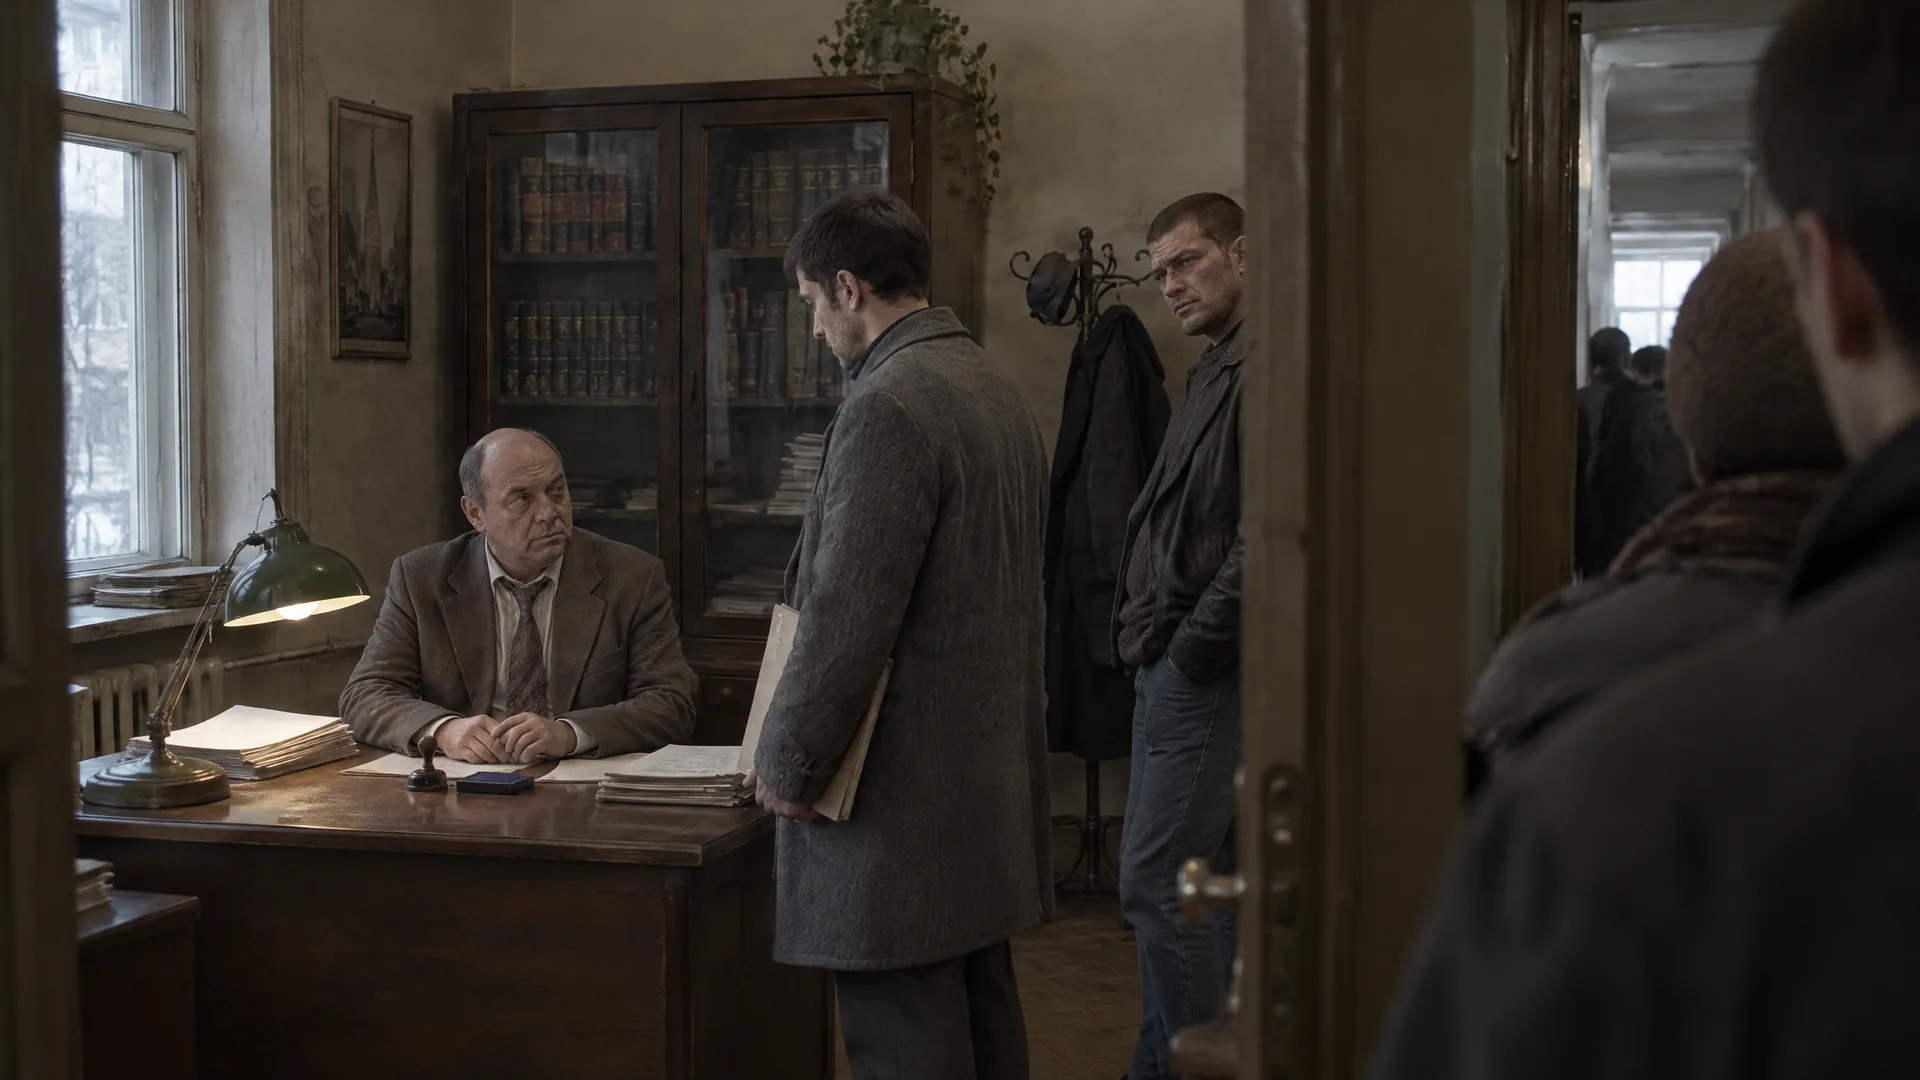
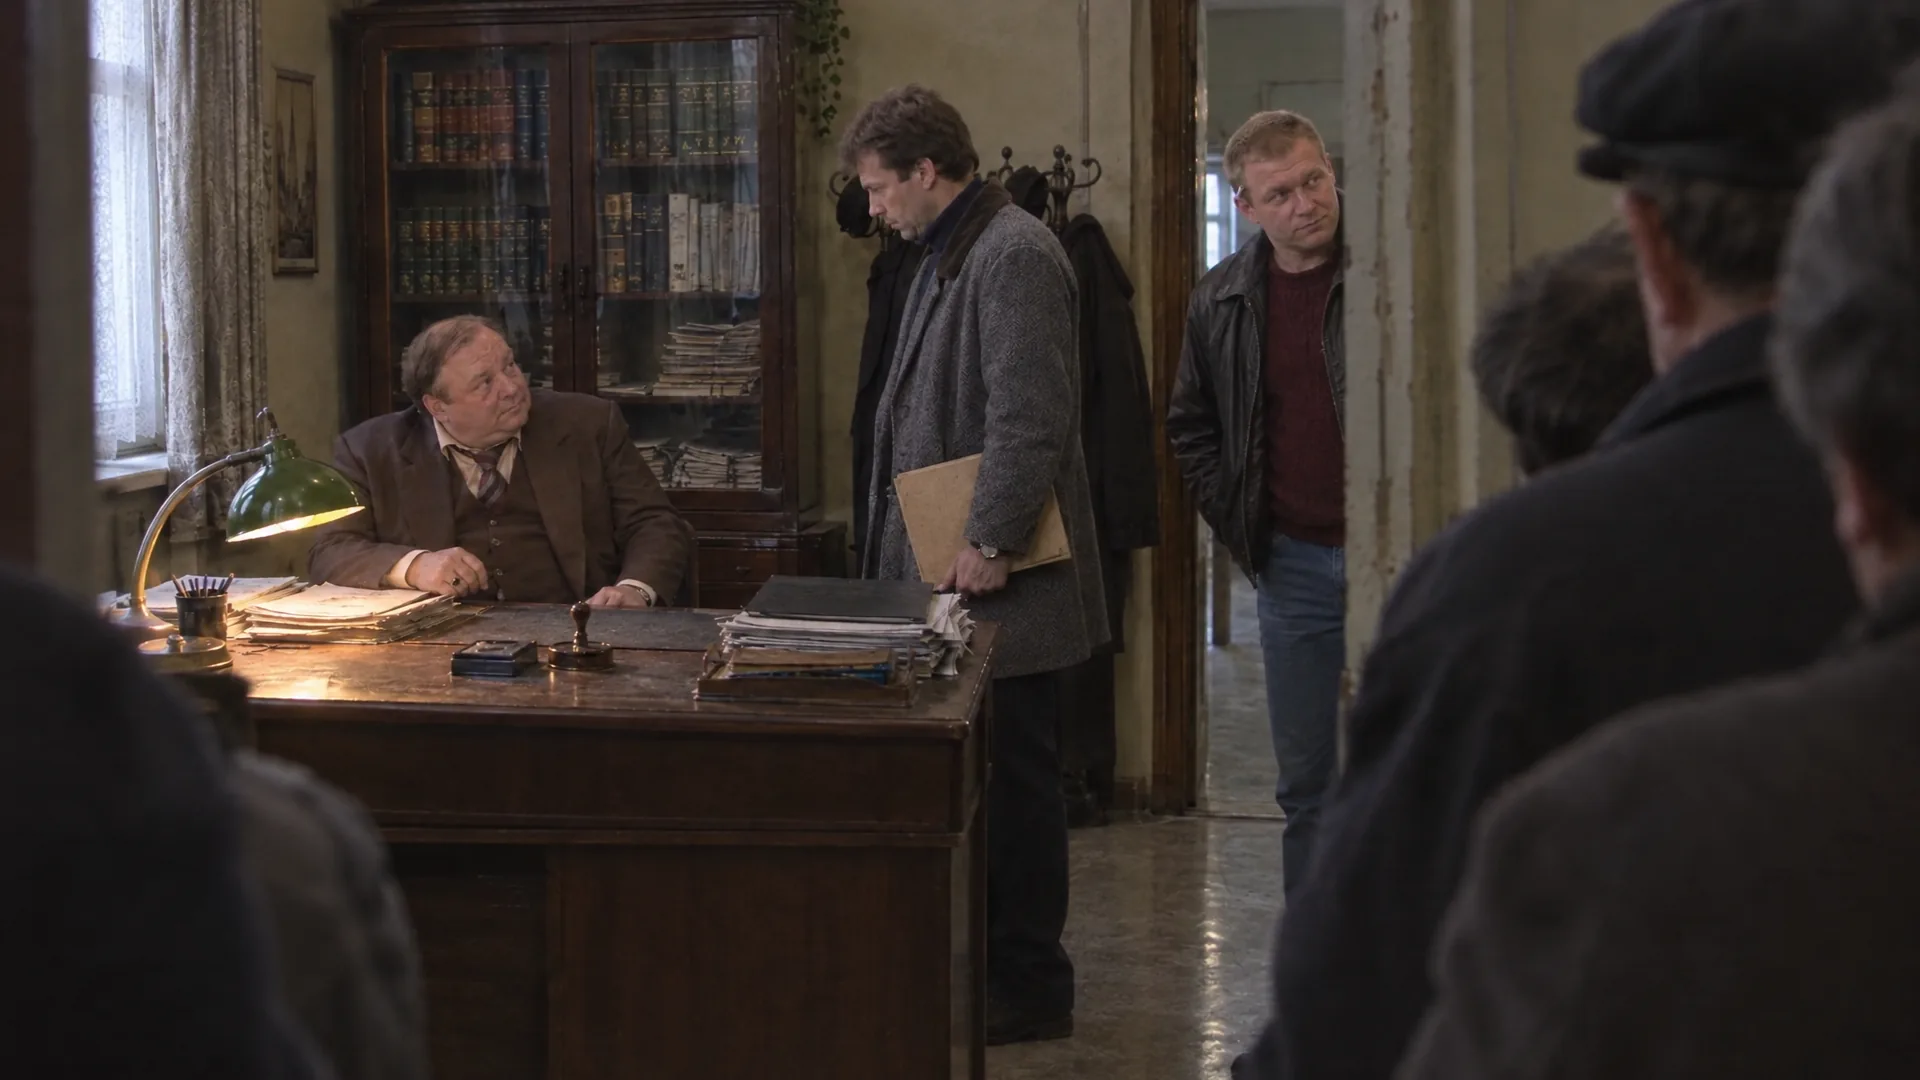
Пересъёмка на high: notary — 29 кадров через API
Волна A — общие планы и эталонный крупный план нотариуса, кроп нового
wide_1 в REGEN_REFS; волна B — 26 кадров. В ракурсе из коридора очередь
названа незнакомцами без примет героев (модель поставила в неё вторую Зою).

diff --git a/tools/shot_plan.py b/tools/shot_plan.py
@@ -451,7 +451,8 @@ ANGLES = {
                  "people and the floor toward the open door"),
         ("foreground", "the camera is in the corridor at the open door, looking past the door's edge and the shoulders of "
                        "the waiting queue in the near foreground, out of focus, into the office: the desk with the lamp "
-                       "and the people beyond, in focus"),
+                       "and the people beyond, in focus; the queue are strangers in plain dark coats and caps, none of "
+                       "them dressed like a character of the story (no grey knitted beret, no dark-cherry coat)"),
     ],
     "bg_stairwell": [
         ("low", "the camera is on the stairs two steps below the landing, at the level of the top step, tilted up through "
@@ -550,6 +551,8 @@ REGEN_REFS: dict[str, dict[str, str]] = {
     "apartment_zoya": {"room": "sh_apartment_zoya_wide_1", "medium": "file:assets/ep01/refs/apartment_zoya_medium_v2.jpg",
                        "angle": "file:assets/ep01/refs/apartment_zoya_medium_v2.jpg", "insert": "file:assets/ep01/refs/apartment_zoya_medium_v2.jpg",
                        "medium_solo": "media:f2b7b3ac-4120-4d2f-9501-dd407a5aab1b"},
+    "notary": {"room": "sh_notary_wide_1", "medium": "file:assets/ep01/refs/notary_medium_v2.jpg",
+               "angle": "file:assets/ep01/refs/notary_medium_v2.jpg", "insert": "file:assets/ep01/refs/notary_medium_v2.jpg"},
 }
 NEW_IDS: set[str] = set()  # записи манифеста с "v": 2 — кадры, принятые уже по новым лицам
 

diff --git a/assets/ep01/generation-log.md b/assets/ep01/generation-log.md
@@ -416,6 +416,7 @@ daylight, slush»). Решение: панорама хроники переге
 | 102 | **Выражения спрайтов, high**: 21 правка принятой базы (Reference 1 — база, «то же лицо, одежда, поза и кадр; меняется только выражение»; тексты выражений — `sprite_plan.EXPR`). 13 — Higgsfield high/2k (кредиты кончились: 2,55 осталось), 8 — API gpt-image-2.5-flare high 1088×1920 с `background: transparent` (≈ $0.055 за спрайт; альфа есть) | 21 из 21 приняты с первого раза; рамка фигуры у выражения совпадает с базой в пределах 1–2 % высоты (boss.tired оседает — так в тексте выражения), смена выражения в игре без скачка |
 | 103 | **Пересъёмка stairwell на high** через API (gpt-image-2.5-flare, high, 1920×1088 → 1920×1080): волна A — wide ×3 по фону и лицам + эталонный крупный план соседки; кропы нового wide_1 и wide_3 → `refs/stairwell_medium_v2.jpg`, `refs/stairwell_medium_solo_v2.jpg` (`tools/regen/crop_ref.py`, в `REGEN_REFS` как `file:`); волна B — 24 кадра | 28 из 28 приняты с первого раза; печать на бумажке вставки и газеты в ящиках — нечитаемая вязь; почтовые ящики на крупных планах синее, чем на общих (крупные строятся без референса комнаты, фон размыт) — допустимо; $2.27 (≈ $0.081 за кадр) |
 | 104 | **Пересъёмка apartment_zoya на high** через API: волна A — wide ×4 и эталонный крупный план Зои; кроп нового wide_1 → `refs/apartment_zoya_medium_v2.jpg`; волна B — 30 кадров | 35 из 35 приняты; одна вставка переснята дважды: «рука в перчатке» без хозяина — модель надела чёрную перчатку на рукав пальто Зои; в `INSERTS` теперь рука эксперта в резиновой перчатке с манжетой халата и фото «молодой солдат в фуражке», как на крупных планах сета; ≈ $2.9 |
+| 105 | **Пересъёмка notary на high** через API (первый сет, снятый по новым лицам впервые): волна A — wide ×2 и эталонный крупный план нотариуса; кроп нового wide_1 → `refs/notary_medium_v2.jpg`, `REGEN_REFS["notary"]`; волна B — 26 кадров | 29 из 29 приняты; ракурс из коридора переснят: в очереди на переднем плане модель поставила женщину в сером берете и вишнёвом пальто (вторая Зоя) — в тексте ракурса теперь «очередь — незнакомцы в тёмных пальто и кепках, ни на кого из героев не похожи»; ≈ $2.4 |
 
 Правила, добавленные по итогам: словесные приметы каждого референса (`docs/production/prompts/ep01-images.md`,
 таблица персонажей); для `ots` — «камера за спиной X, лицом к камере Y, людей не менять местами» и явные

diff --git a/assets/ep01/regen/README.md b/assets/ep01/regen/README.md
@@ -17,7 +17,7 @@
 |---|---|---|---|
 | Спрайты — базы `neutral` | 13 | 13 (в манифесте, файлы на месте) | Higgsfield high/2k |
 | Спрайты — выражения | 21 | 21 | 13 Higgsfield high/2k, 8 API |
-| Кадры покрытия (все 14 сетов) | 333 | 63 (stairwell, apartment_zoya закрыты) | API, ≈ $0.08 за кадр |
+| Кадры покрытия (все 14 сетов) | 333 | 92 (stairwell, apartment_zoya, notary закрыты) | API, ≈ $0.08 за кадр |
 | CG (5) и документы `doc_*` (5) | 10 | 0 | API |
 
 Кредиты Higgsfield израсходованы (2,55 — меньше одной картинки high/2k): дальше всё через API. Цены high: 2k — 2,75, 1k — 1,5 кредита
